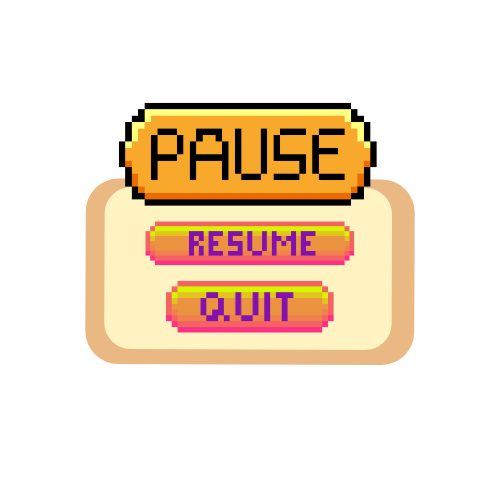
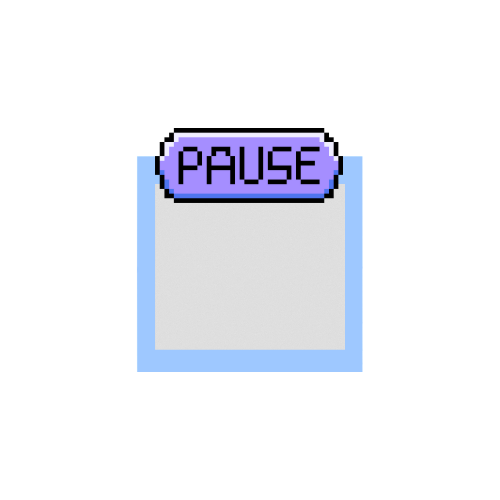
Add pause pop up

diff --git a/src/com/sudoku/view/PausePopUp.java b/src/com/sudoku/view/PausePopUp.java
@@ -46,15 +46,19 @@ class PausePopUp {
 		timeLabel.setForeground(Color.decode("#adaba5"));
 
 		pauseLabel = new JLabel(popupIcon);
-		pauseLabel.setBounds(0, 70, 400, 400);
+		pauseLabel.setBounds(0, 50, 400, 400);
 
 		resumeButton = new Button(resumeIcon, backgroundColor).getButton();
-		resumeButton.setBounds(145, 370, 120, 40);
+		resumeButton.setBounds(138, 240, 120, 40);
+		
+		quitButton = new Button(quitIcon, backgroundColor).getButton();
+		quitButton.setBounds(138, 290, 120, 40);
 
 		addEvent();
 		dialog.add(timeLabel);
-		dialog.add(pauseLabel);
 		dialog.add(resumeButton);
+		dialog.add(quitButton);
+		dialog.add(pauseLabel);
 		dialog.setVisible(true);
 	}
 
@@ -63,11 +67,18 @@ class PausePopUp {
 			dialog.dispose();
 			timer.setStartTimer();
 		});
+
+		quitButton.addActionListener(e -> {
+			dialog.dispose();
+			pauseFrame.dispose();
+			new DashboardMenu();
+		});
 	}
 
 	private void setImage() {
-		popupIcon = new ImageHelper("src/com/sudoku/images/pausePopUp.png", 400, 400).getImageIcon();
-		resumeIcon = new ImageHelper("src/com/sudoku/images/resume.png", 50, 50).getImageIcon();
+		popupIcon = new ImageHelper("src/com/sudoku/images/pausePopUp.png", 500, 500).getImageIcon();
+		resumeIcon = new ImageHelper("src/com/sudoku/images/resume.png", 340, 340).getImageIcon();
+		quitIcon = new ImageHelper("src/com/sudoku/images/quitInPause.png", 300, 300).getImageIcon();
 		pauseLabel = new JLabel(popupIcon);
 	}
 }

diff --git a/src/com/sudoku/view/WinPopUp.java b/src/com/sudoku/view/WinPopUp.java
@@ -19,8 +19,9 @@ class WinPopUp {
 	private String backgroundColor = "#FFFFFF";
 	private JLabel winLabel;
 	private JLabel timeLabel;
+	private JLabel difficultyLabel;
 	private String time;
-	private final Font labelFont = SudokuFont.getFont("Comic Sans MS", 1, 14);
+	private final Font labelFont = SudokuFont.getFont("Comic Sans MS", 1, 13);
 	private Timer timer;
 
 	public WinPopUp(JFrame frame, Timer timer) {
@@ -40,19 +41,24 @@ class WinPopUp {
 		dialog.setLocationRelativeTo(null);
 		dialog.getContentPane().setLayout(null);
 
+		difficultyLabel = new JLabel(App.getDifficulty());
+		difficultyLabel.setBounds(210, 240, 50, 50);
+		difficultyLabel.setFont(labelFont);
+		difficultyLabel.setForeground(Color.decode("#adaba5"));
+		
 		timeLabel = new JLabel(timer.getTime());
-		timeLabel.setBounds(180, 245, 50, 50);
+		timeLabel.setBounds(180, 262, 50, 50);
 		timeLabel.setFont(labelFont);
 		timeLabel.setForeground(Color.decode("#adaba5"));
 		
 		winLabel = new JLabel(popupIcon);
-		winLabel.setBounds(0, 50, 400, 400);
-
+		winLabel.setBounds(0, 20, 400, 400);
 
 		okButton = new Button(okIcon, backgroundColor).getButton();
 		okButton.setBounds(145, 370, 120, 40);
 
 		addEvent();
+		dialog.add(difficultyLabel);
 		dialog.add(timeLabel);
 		dialog.add(winLabel);
 		dialog.add(okButton);

diff --git a/src/com/sudoku/view/App.java b/src/com/sudoku/view/App.java
@@ -70,7 +70,7 @@ class App {
 	private JButton quitButton = functionPad.getQuitButton(); 
 	private JButton pauseButton = functionPad.getPauseButton(); 
 
-	private String difficulty;
+	private static String difficulty;
 
 	private static String[][] solution = new String[9][9]; // Save solution
 																												 //
@@ -157,6 +157,10 @@ class App {
 		return frame;
 	}
 
+	public static String getDifficulty() {
+		return difficulty;
+	}
+
 	public void loadSudokuPuzzle() {
 		String[][] board = SaveData.getBoard();
 		boolean[][] editable = SaveData.getEditable();
@@ -194,7 +198,7 @@ class App {
 		}
 
 		if(difficulty.equals("EASY")) {
-			SudokuGenerator.removeCell(fields, 5);
+			SudokuGenerator.removeCell(fields, 1);
 		} else if(difficulty.equals("MEDIUM")) {
 			SudokuGenerator.removeCell(fields, 51);
 		} else if(difficulty.equals("HARD")) {
